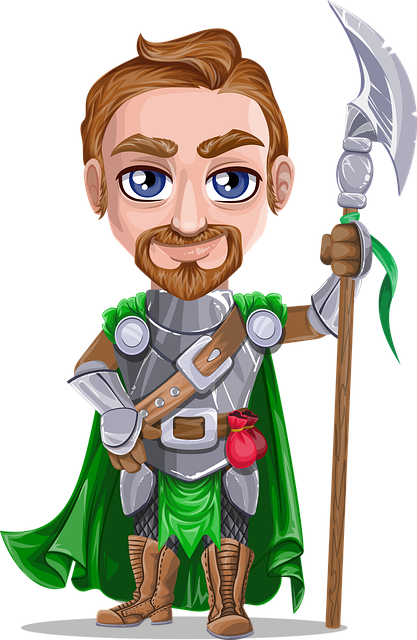
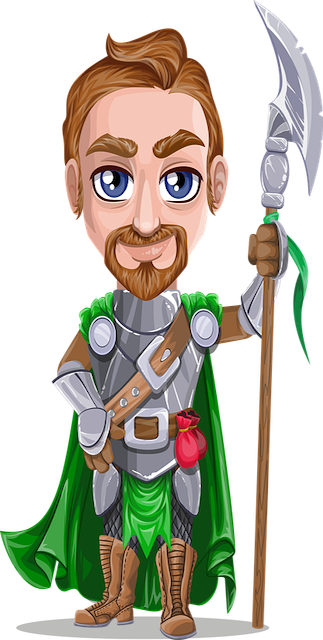
character creation is working as it should be

diff --git a/client-src/src/app/components/character-creation/character-creation.component.ts b/client-src/src/app/components/character-creation/character-creation.component.ts
@@ -11,13 +11,13 @@ import { Router } from '@angular/router';
 })
 export class CharacterCreationComponent implements OnInit {
   name:String;
-  image:Number;
+  imageIndex:number;
 
   private imgPaths = [
     {src:'http://webshare.mah.se/ae3529/img1.png', alt:'img1'},
-    {src:'http://webshare.mah.se/ae3529/img1.png', alt:'img2'},
-    {src:'http://webshare.mah.se/ae3529/img1.png', alt:'img3'},
-    {src:'http://webshare.mah.se/ae3529/img1.png', alt:'img4'}
+    {src:'http://webshare.mah.se/ae3529/img2.png', alt:'img2'},
+    {src:'http://webshare.mah.se/ae3529/img3.png', alt:'img3'},
+    {src:'http://webshare.mah.se/ae3529/img4.png', alt:'img4'}
   ];
 
   private img:Object;
@@ -30,25 +30,34 @@ export class CharacterCreationComponent implements OnInit {
   ) { }
 
   ngOnInit() {
-    this.img = this.imgPaths[0];
+    this.imageIndex = 0;
+    this.img = this.imgPaths[this.imageIndex];
   }
 
   private moveLeft(){
-
+    if(this.imageIndex <= 0){
+      this.imageIndex = 3;
+      this.img = this.imgPaths[this.imageIndex];
+    }else{
+      this.imageIndex--;
+      this.img = this.imgPaths[this.imageIndex];
+    }
   }
 
   private moveRight(){
-
-  }
-
-  onCharacter(){
-    console.log(this.img);
+    if(this.imageIndex >= 3){
+      this.imageIndex = 0;
+      this.img = this.imgPaths[this.imageIndex];
+    }else{
+      this.imageIndex++;
+      this.img = this.imgPaths[this.imageIndex];
+    }
   }
 
   onCharacterSubmit(){
     const char = {
       name:this.name,
-      image:this.image
+      image:this.imgPaths[this.imageIndex].src
     }
 
   if(!this.validateService.validateCharName(char)){

diff --git a/client-src/src/app/components/character-creation/character-creation.component.html b/client-src/src/app/components/character-creation/character-creation.component.html
@@ -1,14 +1,21 @@
 <h2 class="page-header">Register your character</h2>
 <p>This is where you create your character! GLHF</p>
-<form (submit)="onCharacter()">
+<form (submit)="onCharacterSubmit()">
   <div class="form-group">
     <label>Character Name</label>
     <input type="text" [(ngModel)]="name" name="name" class="form-control">
   </div>
-  <div class="form-group">
-    <label>IMAGE</label>
+  <div id="myCarousel" class="carousel slide" data-ride="carousel">
     <div class="char-image">
       <img id="image" src={{img.src}} alt={{img.alt}}>
+      <a class="left carousel-control" (click)="moveLeft()" role="button" data-slide="prev">
+        <span class="glyphicon glyphicon-chevron-left" aria-hidden="true"></span>
+        <span class="sr-only">Previous</span>
+      </a>
+      <a class="right carousel-control" (click)="moveRight()" role="button" data-slide="next">
+        <span class="glyphicon glyphicon-chevron-right" aria-hidden="true"></span>
+        <span class="sr-only">Next</span>
+      </a>
     </div>
   </div>
   <input type="submit" class="btn btn-primary" value="Confirm">

diff --git a/models/character.js b/models/character.js
@@ -7,7 +7,7 @@ const CharacterSchema = mongoose.Schema({
     required: true
   },
   charImage:{
-    type:Number,
+    type:String,
     required:true
   },
   playerLvl:{

diff --git a/client-src/src/app/components/character-creation/character-creation.component.css b/client-src/src/app/components/character-creation/character-creation.component.css
@@ -1,3 +1,5 @@
 #image{
-  width: 40%;
+  display: block;
+  margin: auto;
+  width: 20%;
 }
